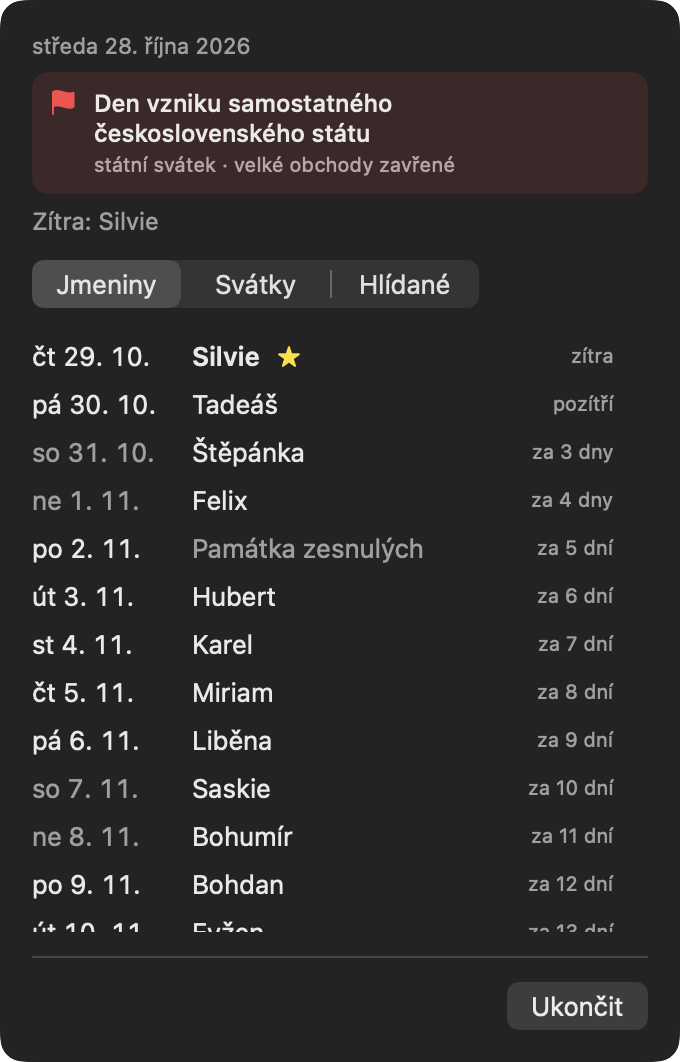
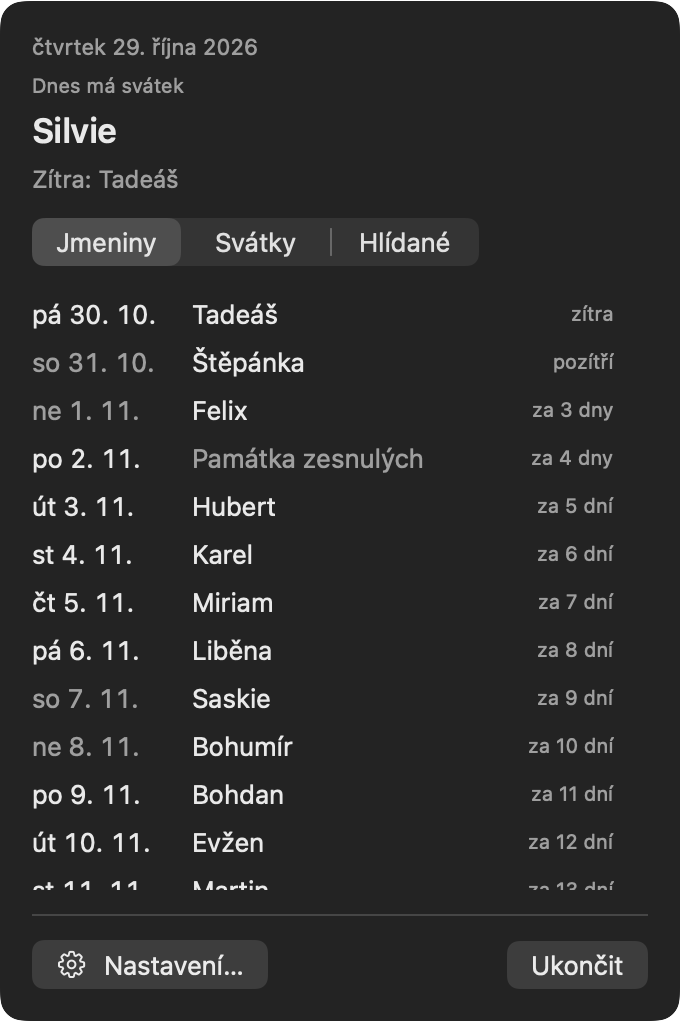
docs: product page and README cover settings and launch at login
- Product page: three new feature cards (launch with the Mac, settings,
  privacy) and an accurate hero line now that there is a settings window
- README: settings screenshot, update check can be turned off
- Fresh panel screenshots and OG card with the new settings button
- Snapshot trims transparent rows so docs screenshots need no manual crop

diff --git a/site/index.html b/site/index.html
@@ -133,7 +133,7 @@
       <h1>Kdo má dnes svátek?<br><span class="accent">Mac to ví.</span></h1>
       <p class="lede">SvátekTracker ukazuje <b>dnešní jmeniny</b> přímo v menu baru, hlídá
         <b>státní svátky</b> i dny, kdy mají velké obchody zavřeno, a <b>den předem připomene</b>
-        svátek tvých blízkých. Žádné okno, žádná ikona v Docku.</p>
+        svátek tvých blízkých. Bez ikony v Docku a po zapnutí Macu se spustí samo.</p>
       <div class="cta-row">
         <a class="dl" href="SvatekTracker-latest.dmg" download>
           <svg viewBox="0 0 24 24" fill="none" stroke="currentColor" stroke-width="2.2" stroke-linecap="round" stroke-linejoin="round"><path d="M12 3v12m0 0l4-4m-4 4l-4-4M5 21h14"/></svg>
@@ -155,6 +155,9 @@
       <div class="feat c-green"><div class="ic">🛒</div><h3>Zavřené obchody</h3><p>Vidíš, kdy mají obchody nad 200 m² zavřeno, a volitelně dostaneš upozornění den předem.</p></div>
       <div class="feat c-paper"><div class="ic">🔍</div><h3>Kdy má svátek…?</h3><p>Hledání bez háčků a čárek: „sarl“ najde Šarlotu i s datem a počtem dní.</p></div>
       <div class="feat c-pink"><div class="ic">↻</div><h3>Aktualizace samy</h3><p>Podepsané a notarizované aktualizace přímo v appce. Jedno kliknutí a máš nejnovější verzi.</p></div>
+      <div class="feat c-red"><div class="ic">💻</div><h3>Spustí se s Macem</h3><p>Po zapnutí nebo restartu Macu naskočí samo, takže dnešní svátek nikdy nepropásneš.</p></div>
+      <div class="feat c-yellow"><div class="ic">⚙</div><h3>Nastavení na míru</h3><p>Jména v liště, nebo jen ikona. Vyber si, jestli chceš upozornění večer předem, ráno, nebo obojí.</p></div>
+      <div class="feat c-green"><div class="ic">🔒</div><h3>Soukromí</h3><p>Vše se počítá přímo v Macu, bez účtu. Ven jde jen denní dotaz na novou verzi — a i ten jde vypnout.</p></div>
     </div>
   </section>
 

diff --git a/Sources/SvatekTracker/App/Snapshot.swift b/Sources/SvatekTracker/App/Snapshot.swift
@@ -28,10 +28,22 @@ enum Snapshot {
         view.cacheDisplay(in: view.bounds, to: rep)
         let url = URL(fileURLWithPath: directory).appendingPathComponent("\(name).png")
         do {
-            try rep.representation(using: .png, properties: [:])?.write(to: url)
+            try trimmed(rep).representation(using: .png, properties: [:])?.write(to: url)
             print("wrote \(url.path)")
         } catch {
             print("failed to write \(url.path): \(error.localizedDescription)")
         }
+    }
+
+    /// Drops the fully transparent rows above and below the content (the
+    /// grouped Form's insets), so the PNG goes into docs/ as is.
+    private static func trimmed(_ rep: NSBitmapImageRep) -> NSBitmapImageRep {
+        let x = rep.pixelsWide / 2
+        let opaque = (0..<rep.pixelsHigh).filter { (rep.colorAt(x: x, y: $0)?.alphaComponent ?? 0) > 0 }
+        guard let top = opaque.first, let bottom = opaque.last,
+            let image = rep.cgImage?.cropping(
+                to: CGRect(x: 0, y: top, width: rep.pixelsWide, height: bottom - top + 1))
+        else { return rep }
+        return NSBitmapImageRep(cgImage: image)
     }
 }

diff --git a/README.md b/README.md
@@ -15,14 +15,17 @@ Native macOS menubar app (Apple Silicon) for Czech name days and public holidays
   holidays (with Easter computed), and which ones close large shops.
 - **Track names** (search, then star) to get a reminder the evening before and
   the morning of their name day. Opt-in heads-up the evening before shops close.
-- **Settings** (⚙ in the panel, or right-click → Nastavení…): launch at login
-  (on by default), names or just an icon in the menu bar, which reminders to
-  send, and automatic update checks.
+- **Settings** (⚙ Nastavení… in the panel, or right-click the menu bar item):
+  launch at login (on by default), names or just an icon in the menu bar, which
+  reminders to send, and automatic update checks.
 - Rolls over at midnight and after sleep.
 - Updates itself via [Sparkle](https://sparkle-project.org).
 - Everything is computed locally. The only network traffic is Sparkle's daily
   update check, which includes Sparkle's anonymous system profile (macOS
-  version, CPU type) — no accounts, no analytics SDK.
+  version, CPU type) — no accounts, no analytics SDK. Settings can turn the
+  check off.
+
+<img src="docs/nastaveni.png" width="420" alt="Settings">
 
 ## Install
 

diff --git a/CLAUDE.md b/CLAUDE.md
@@ -76,7 +76,9 @@ klíč ani nic citlivého nepatří do gitu**. Pipeline zděděná z ostatních 
   `scripts/setup-update-host.sh`; DNS `svatektracker.jsemkoder.cz` = A záznam bez proxy.
 - **Web:** `site/index.html` (`{{VERSION}}` se stampuje při release), náhled pro sdílení
   `site/og.png` z `site/og-image.html` přes `scripts/make-og.sh`. Screenshoty v `docs/`
-  jsou z `SVATEKTRACKER_SNAPSHOT`; `site/screenshot.png` je symlink na `docs/jmeniny.png`.
+  jsou z `SVATEKTRACKER_SNAPSHOT`: panel přes `swift run` (bez osobních hlídaných jmen),
+  `nastaveni.png` spuštěním binárky nainstalované appky (ukáže verzi a skutečný stav).
+  `site/screenshot.png` je symlink na `docs/jmeniny.png` — po změně pusť i `make-og.sh`.
 
 ## Analytika
 
